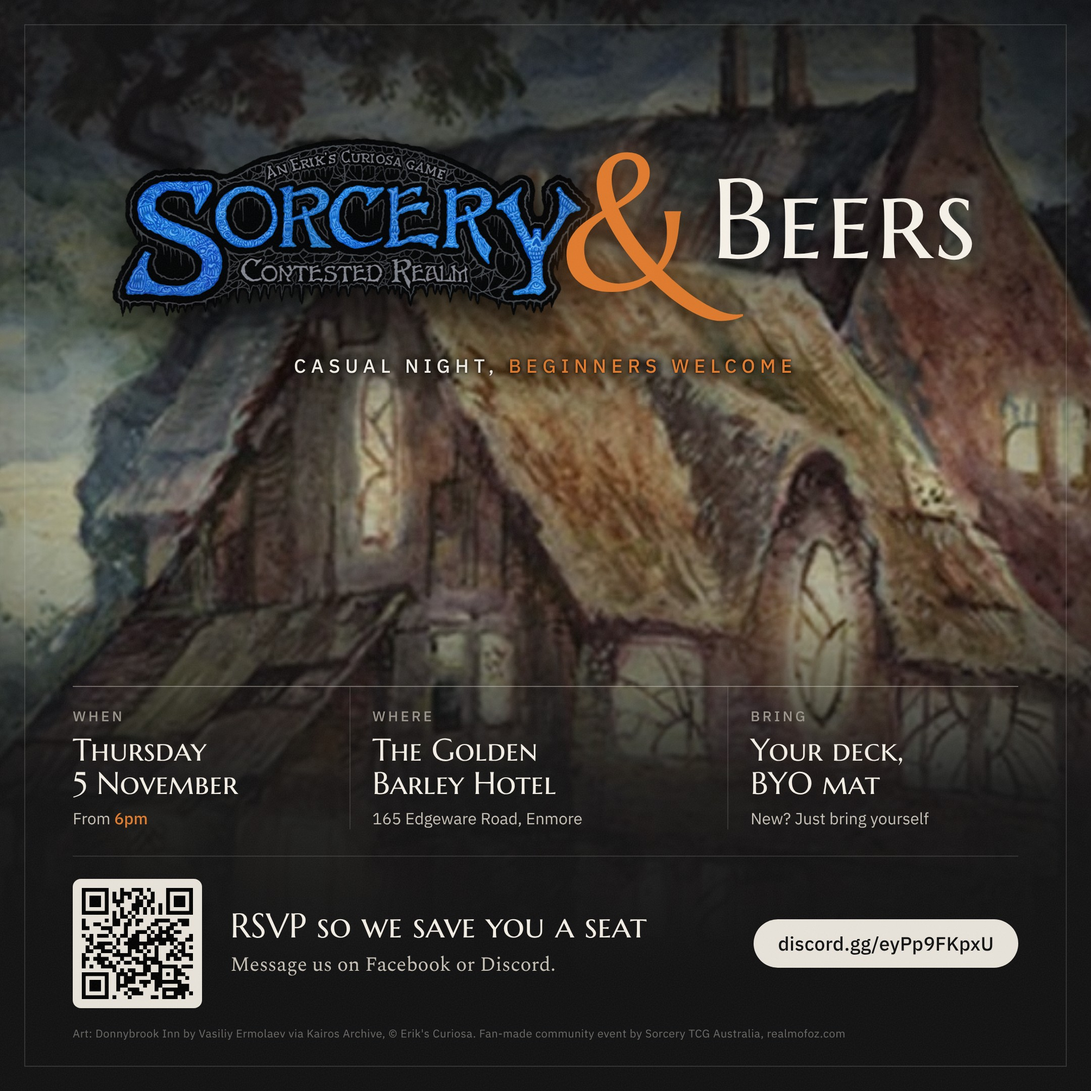
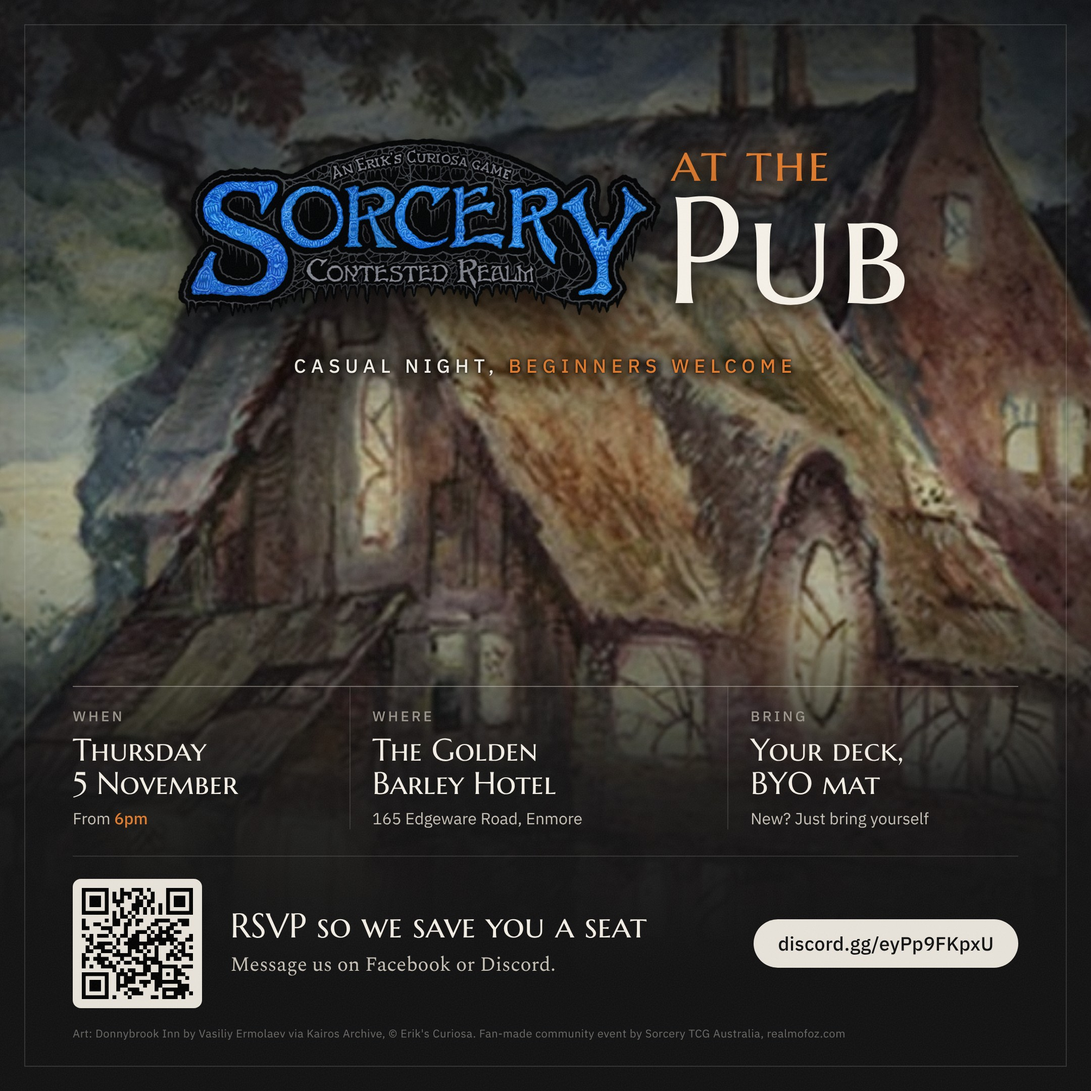
Rename the square post to Sorcery at the Pub
A social night that does not imply drinking. The lockup keeps the logo and
title on one line, with "at the" in ember stacked over a large "Pub".

Claude-Session: https://claude.ai/code/session_01ErFr7oUEjawLecSonZULzD

Changed region(s): [[0.0931, 0.1241, 0.8995, 0.3102]]

diff --git a/posters/sorcery-and-beers/square.html b/posters/sorcery-and-beers/square.html
@@ -2,10 +2,10 @@
 <html lang="en-AU">
 <head>
 <meta charset="utf-8">
-<title>Sorcery and Beers</title>
-<!-- Sorcery and Beers, square for Facebook, Instagram and Discord (1080 x 1080).
+<title>Sorcery at the Pub</title>
+<!-- Sorcery at the Pub, square for Facebook, Instagram and Discord (1080 x 1080).
      Same system as poster.html, pared back: the lamp-lit Donnybrook Inn as
-     the whole ground, the logo and "& Beers" on one line as one mark, the
+     the whole ground, the logo and "at the Pub" on one line as one mark, the
      facts in one hairline row, the Discord QR. Rendered by render.cjs. -->
 <link rel="preconnect" href="https://fonts.googleapis.com">
 <link rel="preconnect" href="https://fonts.gstatic.com" crossorigin>
@@ -68,17 +68,18 @@
     border: 1px solid rgba(232, 227, 218, 0.16);
   }
 
-  /* ---------- the lockup: logo, a large ember "&" bridging its Y, then "Beers",
+  /* ---------- the lockup: logo, then "at the" in ember stacked over "Pub",
      one line read as one mark ---------- */
   .lockup { width: 100%; margin-top: 70px; display: flex; flex-wrap: wrap; justify-content: center; align-items: center; }
   .logo { position: relative; z-index: 2; flex: none; display: block; width: 480px; filter: drop-shadow(0 18px 26px rgba(0, 0, 0, 0.85)); }
   .title {
-    position: relative; z-index: 3; flex: none; margin-left: -40px; transform: translateY(-4px);
-    font-family: var(--font-display); font-weight: 400; font-size: 112px; line-height: 0.9; letter-spacing: 0.02em; white-space: nowrap;
+    position: relative; z-index: 3; flex: none; margin-left: 2px;
+    display: flex; flex-direction: column;
+    font-family: var(--font-display); font-weight: 400; font-size: 150px; line-height: 0.82; letter-spacing: 0.02em; white-space: nowrap;
     color: #f6f1e8;
     text-shadow: 0 6px 22px rgba(0, 0, 0, 0.9), 0 0 60px rgba(15, 15, 16, 0.7);
   }
-  .title .amp { font-size: 190px; vertical-align: -0.16em; margin-right: 0.02em; color: var(--ember); text-shadow: 0 0 34px rgba(224, 122, 44, 0.55), 0 6px 22px rgba(0, 0, 0, 0.9); }
+  .title .at { margin: 0 0 4px 6px; font-size: 52px; letter-spacing: 0.04em; color: var(--ember); text-shadow: 0 0 24px rgba(224, 122, 44, 0.45), 0 4px 16px rgba(0, 0, 0, 0.9); }
   .eyebrow { flex-basis: 100%; text-align: center; margin-top: 34px; font-family: var(--font-info); font-weight: 500; font-size: 19px; letter-spacing: 0.26em; text-transform: uppercase; color: #f3eee5;
     text-shadow: 0 0 2px rgba(0, 0, 0, 0.9), 0 0 8px rgba(0, 0, 0, 0.95), 0 0 22px rgba(15, 15, 16, 0.95), 0 0 40px rgba(15, 15, 16, 0.9); }
   .eyebrow b { font-weight: 500; color: var(--ember); }
@@ -114,7 +115,7 @@
 
   <div class="layout lockup">
     <img class="logo" src="assets/sorcery-logo.png" alt="Sorcery: Contested Realm">
-    <h1 class="title"><span class="amp">&amp;</span>Beers</h1>
+    <h1 class="title"><span class="at">at the</span>Pub</h1>
     <p class="eyebrow">Casual night, <b>beginners welcome</b></p>
   </div>
 
